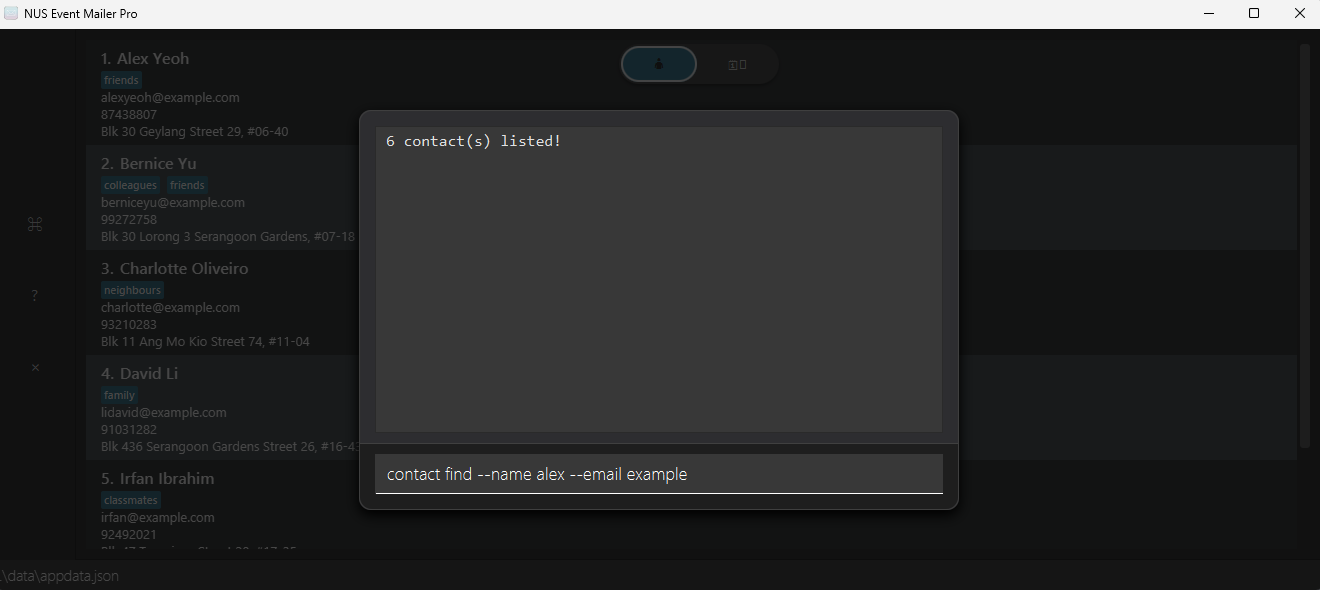
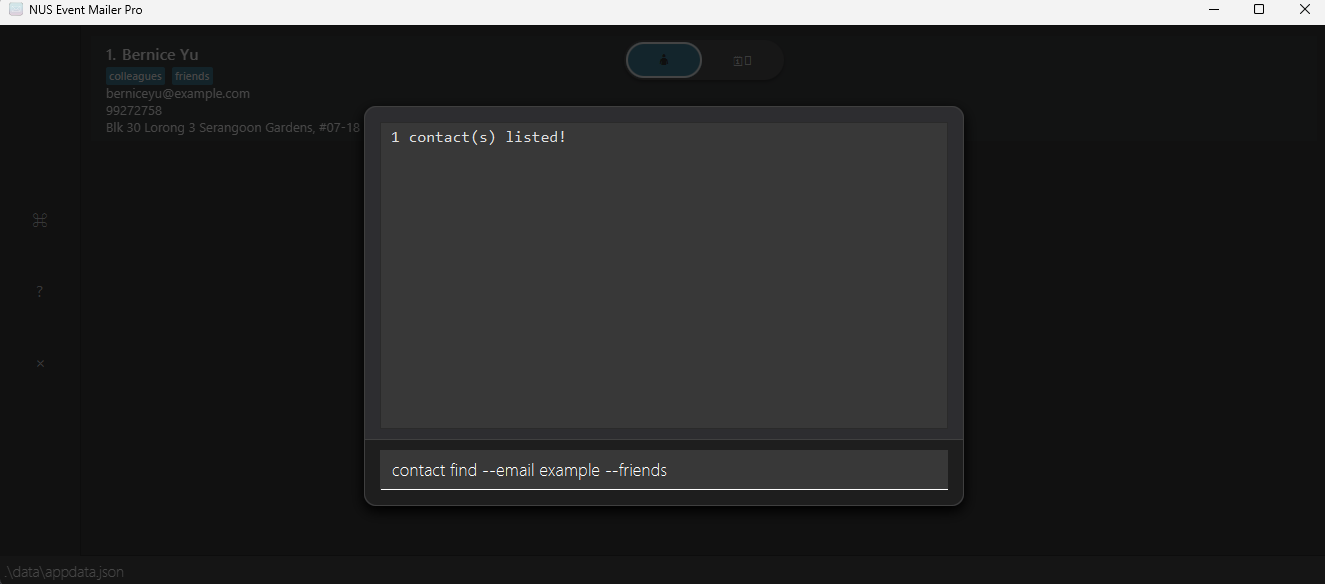
Update anyMatch to fit AND logic between args

diff --git a/src/test/java/nusemp/logic/commands/ContactFindCommandTest.java b/src/test/java/nusemp/logic/commands/ContactFindCommandTest.java
@@ -104,20 +104,19 @@ public class ContactFindCommandTest {
     }
 
     @Test
-    public void execute_multiplePredicatesOr_contactsFound() {
-        String expectedMessage = String.format(MESSAGE_CONTACTS_LISTED_OVERVIEW, 3);
+    public void execute_multiplePredicatesAnd_contactsFound() {
+        String expectedMessage = String.format(MESSAGE_CONTACTS_LISTED_OVERVIEW, 1);
+        // BENSON has name "Benson Meier", email "johnd@example.com", tags ["owesMoney", "friends"]
         NameContainsKeywordsPredicate namePredicate =
-                new NameContainsKeywordsPredicate(Collections.singletonList("Alice"));
-        EmailContainsKeywordsPredicate emailPredicate =
-                new EmailContainsKeywordsPredicate(Collections.singletonList("cornelia"));
+                new NameContainsKeywordsPredicate(Collections.singletonList("Benson"));
         TagContainsKeywordsPredicate tagPredicate =
                 new TagContainsKeywordsPredicate(Collections.singletonList("owesMoney"));
         ContactMatchesAnyPredicatePredicate combinedPredicate =
-                new ContactMatchesAnyPredicatePredicate(Arrays.asList(namePredicate, emailPredicate, tagPredicate));
+                new ContactMatchesAnyPredicatePredicate(Arrays.asList(namePredicate, tagPredicate));
         ContactFindCommand command = new ContactFindCommand(combinedPredicate);
         expectedModel.updateFilteredContactList(combinedPredicate);
         assertCommandSuccess(command, model, expectedMessage, expectedModel);
-        assertEquals(Arrays.asList(ALICE, BENSON, DANIEL), model.getFilteredContactList());
+        assertEquals(Arrays.asList(BENSON), model.getFilteredContactList());
     }
 
     @Test

diff --git a/src/main/java/nusemp/logic/commands/contact/ContactFindCommand.java b/src/main/java/nusemp/logic/commands/contact/ContactFindCommand.java
@@ -21,16 +21,20 @@ public class ContactFindCommand extends Command {
     public static final String COMMAND_WORD = "find";
 
     public static final String MESSAGE_USAGE = CommandType.CONTACT + " " + COMMAND_WORD
-            + ": Finds all contacts whose fields contain any of "
-            + "the specified keywords (case-insensitive) and displays them as a list with index numbers.\n"
+            + ": Finds all contacts whose fields contain the specified keywords (case-insensitive) "
+            + "and displays them as a list with index numbers.\n"
             + "Parameters: KEYWORD [MORE_KEYWORDS]... OR --name KEYWORD [MORE_KEYWORDS]... "
             + "[--email KEYWORD [MORE_KEYWORDS]...] [--tag KEYWORD [MORE_KEYWORDS]...]\n"
+            + "Search logic:\n"
+            + "  - Within each field: OR logic (matches any keyword)\n"
+            + "  - Between fields: AND logic (must match all specified fields)\n"
             + "Examples:\n"
             + "  " + CommandType.CONTACT + " " + COMMAND_WORD + " alice bob charlie\n"
             + "  " + CommandType.CONTACT + " " + COMMAND_WORD + " --name alice\n"
             + "  " + CommandType.CONTACT + " " + COMMAND_WORD + " --email gmail\n"
             + "  " + CommandType.CONTACT + " " + COMMAND_WORD + " --tag friend\n"
-            + "  " + CommandType.CONTACT + " " + COMMAND_WORD + " --name alice --email gmail --tag friend";
+            + "  " + CommandType.CONTACT + " " + COMMAND_WORD + " --name alice bob --email gmail yahoo\n"
+            + "  (matches contacts where name contains 'alice' OR 'bob' AND email contains 'gmail' OR 'yahoo')";
 
     private final Predicate<Contact> predicate;
 

diff --git a/src/main/java/nusemp/model/contact/ContactMatchesAnyPredicatePredicate.java b/src/main/java/nusemp/model/contact/ContactMatchesAnyPredicatePredicate.java
@@ -6,8 +6,8 @@ import java.util.function.Predicate;
 import nusemp.commons.util.ToStringBuilder;
 
 /**
- * Tests that a {@code Contact} matches any of the predicates given.
- * This combines multiple predicates with OR logic.
+ * Tests that a {@code Contact} matches all of the predicates given.
+ * This combines multiple predicates with AND logic.
  */
 public class ContactMatchesAnyPredicatePredicate implements Predicate<Contact> {
     private final List<Predicate<Contact>> predicates;
@@ -19,7 +19,7 @@ public class ContactMatchesAnyPredicatePredicate implements Predicate<Contact> {
     @Override
     public boolean test(Contact contact) {
         return predicates.stream()
-                .anyMatch(predicate -> predicate.test(contact));
+                .allMatch(predicate -> predicate.test(contact));
     }
 
     @Override

diff --git a/docs/UserGuide.md b/docs/UserGuide.md
@@ -142,8 +142,10 @@ Finds contacts whose fields contain any of the given keywords.
 - The search is **case-insensitive**. e.g. `hans` will match `Hans`, `HANS`, or `HaNs`
 - For **name searches**: Only full words will be matched. e.g. `Han` will not match `Hans`
 - For **email and tag searches**: Partial matches are supported. e.g. `gmail` will match `user@gmail.com`
-- When using **multiple filters** (`--name`, `--email`, `--tag`), contacts matching **any** of the filters will be returned (i.e. `OR` search)
-- When providing **multiple keywords** within a single filter, contacts matching **any** keyword will be returned
+- **Within each field**: OR logic applies - contacts matching **any** keyword will be returned
+  - e.g. `--name alice bob` matches contacts with "alice" OR "bob" in their name
+- **Between different fields**: AND logic applies - contacts must match **all** specified fields
+  - e.g. `--name alice --email gmail` matches contacts with "alice" in name AND "gmail" in email
 
 </box>
 
@@ -188,13 +190,23 @@ Finds contacts whose fields contain any of the given keywords.
 
   ![Example](images/contactFindTagExample.png)
 
+- `contact find --name alice bob --email nus.edu ntu.edu`
+
+  - Finds contacts where name contains (`alice` OR `bob`) AND email contains (`nus.edu` OR `ntu.edu`)
+  - Matches: `Alice Tan` with `alice@nus.edu`, `Bob Lee` with `bob@ntu.edu`
+  - Does NOT match: `Alice Tan` with `alice@gmail.com` (name matches but email doesn't)
+  - Does NOT match: `Charlie Ng` with `charlie@nus.edu` (email matches but name doesn't)
+
+  ![Example](images/contactFindCombinedExample.png)
+
 - `contact find --name John --email gmail --tag colleague`
 
-  - Finds contacts where ANY of the following is true:
-    - Name contains `John`, OR
-    - Email contains `gmail`, OR
+  - Finds contacts where ALL of the following are true:
+    - Name contains `John`, AND
+    - Email contains `gmail`, AND
     - Has tag containing `colleague`
-  - This broadens your search to find more matches
+  - This narrows your search to very specific matches
+  - Only returns contacts that satisfy all three conditions
 
   ![Example](images/contactFindCombinedExample.png)
 
@@ -205,7 +217,8 @@ Finds contacts whose fields contain any of the given keywords.
 - Use **simple name search** when you only need to find someone by name quickly
 - Use **`--email`** to find all contacts from a specific domain (e.g., `--email company.com`)
 - Use **`--tag`** to find all contacts in a category (e.g., `--tag client`, `--tag vendor`)
-- **Combine filters** to cast a wider net when you're not sure which field contains your keyword
+- **Combine multiple filters** to narrow down your search to very specific contacts
+- **Use multiple keywords within a field** to broaden matches within that field (e.g., `--email nus.edu ntu.edu` finds emails from either domain)
 
 </box>
 
